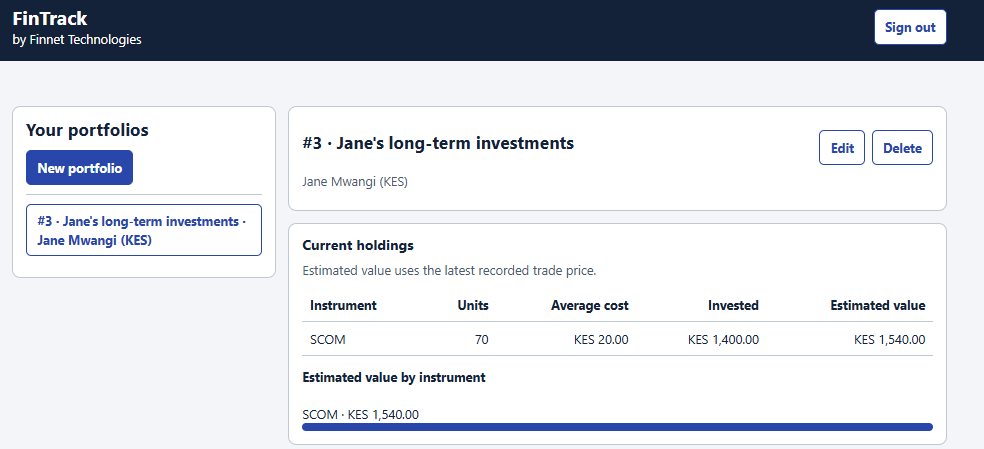
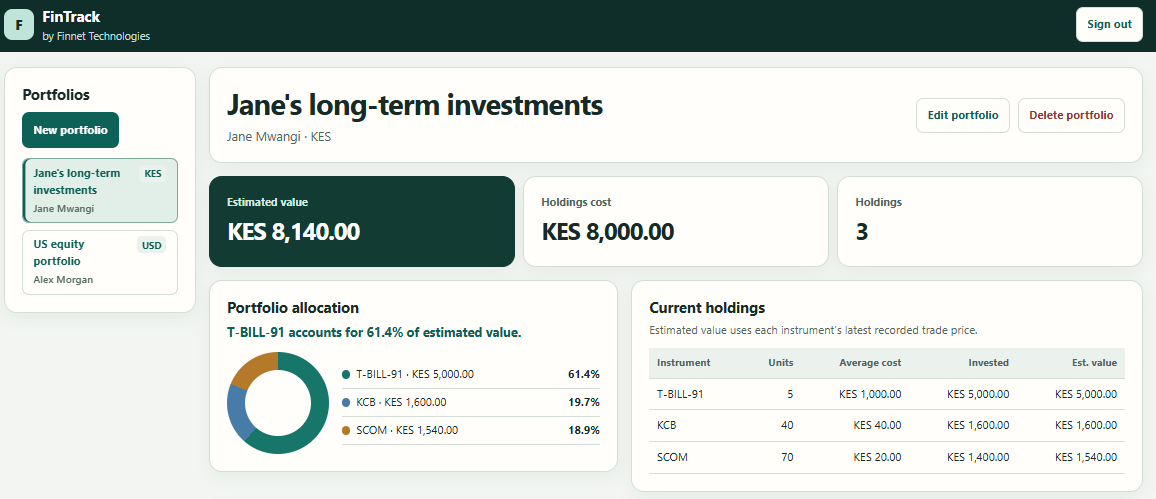
update FinTrack setup guide and dashboard screenshots

diff --git a/README.md b/README.md
@@ -1,46 +1,78 @@
 # FinTrack
 
-A portfolio and transaction tracker built for the Finnet technical assessment.
+FinTrack is a portfolio and transaction tracker built for the Finnet Technologies technical assessment. An analyst can create client portfolios, record buys and sells, and see current holdings, their estimated value, and how that value is distributed across instruments.
 
 ## Live demo
 
 - [FinTrack web app](https://fintrack-6y5h.onrender.com/)
 - [Swagger API documentation](https://fintrack-6y5h.onrender.com/docs)
+- [GitHub repository](https://github.com/BILDADMOSES/FinTrack)
 
-### Portfolio holdings
+The demo account includes Jane’s KES portfolio and Alex’s USD portfolio. Demo credentials are provided with the submission.
 
-![FinTrack holdings table and estimated value chart](docs/fintrack-dashboard.png)
+## Screenshots
+
+### Portfolio overview
+
+![Jane’s portfolio showing summary cards, allocation chart, and holdings](docs/fintrack-dashboard.png)
 
 ### Transaction history
 
-![FinTrack trade history and record-a-trade form](docs/fintrack-dashboard2.png)
+![Jane’s buy and sell history with filters and trade controls](docs/fintrack-dashboard2.png)
 
-## Architecture
+## Stack and architecture
 
-FinTrack uses FastAPI for the REST API and serves a single-page interface built with HTML, CSS, and JavaScript. PostgreSQL on Neon stores analyst accounts, portfolios, and trades. Render runs the app as one web service.
+| Layer | Technology | Purpose |
+|---|---|---|
+| Frontend | HTML, CSS, and JavaScript | Renders forms, holdings, trade history, and the allocation chart. |
+| API | Python, FastAPI, and Uvicorn | Serves the web page and API, validates requests, and calculates holdings. |
+| Database | PostgreSQL on Neon, accessed through Psycopg | Stores analysts, portfolios, and trades. |
+| Authentication | Argon2 password hashing and JWT access tokens | Verifies sign-in and identifies the analyst making each request. |
+| Tooling and hosting | `uv`, GitHub, and Render | Locks Python dependencies, tracks changes, and deploys the app. |
+
+FastAPI serves the browser interface and the API from one web service. The browser sends requests to FastAPI, FastAPI reads and writes records in PostgreSQL, and the browser displays the results.
 
 ## Run locally
 
-1. Install Python 3.14 and `uv`.
+1. Install `uv` and clone this repository.
 2. Create a PostgreSQL database and run `backend/schema.sql` in it.
-3. Set `DATABASE_URL` to your PostgreSQL connection URL and `FINTRACK_JWT_SECRET` to a randomly generated signing key in your terminal environment.
-4. Run these commands from the repository root:
+3. From the repository root, run the commands below in Bash. Paste your PostgreSQL connection URL when prompted.
 
    ```bash
    uv sync --locked
+   read -rsp 'PostgreSQL connection URL: ' DATABASE_URL
+   echo
+   export DATABASE_URL
+   export FINTRACK_JWT_SECRET="$(uv run --locked python -c 'import secrets; print(secrets.token_hex(32))')"
    uv run --locked python -m uvicorn backend.main:app --port 8001
    ```
 
-5. Open http://127.0.0.1:8001/. Swagger is available at `/docs`.
+4. Open [FinTrack](http://127.0.0.1:8001/) or [Swagger](http://127.0.0.1:8001/docs).
 
-## Manual test
+`.env.example` lists the required settings. Keep real credentials in your environment or hosting dashboard.
 
-Register and sign in. Create a KES portfolio, buy 100 SCOM units at KES 20, then sell 30 at KES 22. Confirm the holdings show 70 units, KES 1,400 invested, and an estimated value of KES 1,540. Try selling 80 more units and confirm the API returns `409 Conflict`.
+## Deployment
 
-## Assumptions and trade-offs
+Render deploys the `main` branch as a Python web service. Set `DATABASE_URL` and `FINTRACK_JWT_SECRET` in the service’s environment settings.
 
-Each portfolio belongs to one analyst and uses either KES or USD. Holdings use weighted-average cost. Estimated value uses the last recorded trade price. Future improvements could include automated tests and live market pricing.
+- Build command: `uv sync --locked`
+- Start command: `uv run --locked python -m uvicorn backend.main:app --host 0.0.0.0 --port $PORT`
+- Health endpoint: `/api/health`
+
+## Manual verification
+
+1. Register and sign in. Create a KES portfolio.
+2. Record a buy of 100 SCOM units at KES 20 and a later sale of 30 units at KES 22.
+3. Confirm the portfolio shows 70 units, KES 1,400 in holdings cost, and KES 1,540 in estimated value.
+4. Try selling 80 more units. The API should return `409 Conflict`. Then try deleting the original buy. The API should also reject that change because the later sale depends on it.
+
+## Calculations and assumptions
+
+- Each portfolio belongs to one analyst and uses KES or USD.
+- Holdings cost uses weighted-average cost. After buying 100 SCOM units at KES 20 and selling 30, the remaining 70 units have a cost of KES 1,400.
+- Estimated value uses each instrument’s latest recorded trade price. At KES 22 per unit, those 70 SCOM units have an estimated value of KES 1,540.
+- Allocation is calculated from estimated value. For Jane’s demo portfolio, T-BILL-91 accounts for KES 5,000 of KES 8,140, or 61.4%.
 
 ## AI assistance
 
-I used ChatGPT to help plan the app, draft code, and troubleshoot it. I implemented and tested the workflows in VS Code, Swagger, and the browser.
+I used ChatGPT to help plan the application, draft and revise code, and troubleshoot issues. I tested the API in Swagger and verified the application in the browser.
